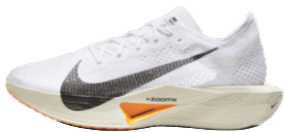
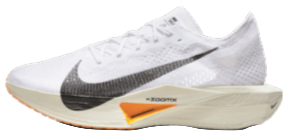
changed images

diff --git a/src/routes/MovingShoes.svelte b/src/routes/MovingShoes.svelte
@@ -1,10 +1,11 @@
 <script>
     import Shoe from "$lib/images/shoe.png";
+    import Shoe2 from "$lib/images/shoe2.png";
     export let moving = false;
 </script>
 
 
-    <img src={Shoe} alt="moving shoe" class="absolute bottom-full first" style="--animation-state: {moving ? "running" : "paused"}" >
+    <img src={Shoe2} alt="moving shoe" class="absolute bottom-full first" style="--animation-state: {moving ? "running" : "paused"}" >
     <img src={Shoe} alt="moving shoe" class="absolute bottom-full second" style="--animation-state: {moving ? "running" : "paused"}"/>
 
 
@@ -32,6 +33,9 @@
         0%{
             transform: rotate(0deg) translateY(0.5rem) translateX(0rem);
         }
+        5% {
+            transform: rotate(-10deg) translateY(0.2rem) translateX(-0.4rem);
+        }
         25%{
             transform: rotate(-30deg) translateY(-3rem) translateX(-2rem);
         }
@@ -58,6 +62,9 @@
         }
         50% {
             transform: rotate(0deg) translateY(0.5rem) translateX(0rem) scale(1.05);
+        }
+        55% {
+            transform: rotate(-10deg) translateY(0.2rem) translateX(-0.4rem) scale(1.05);
         }
         75%{
             transform: rotate(-30deg) translateY(-3rem) translateX(-2rem) scale(1.05);
